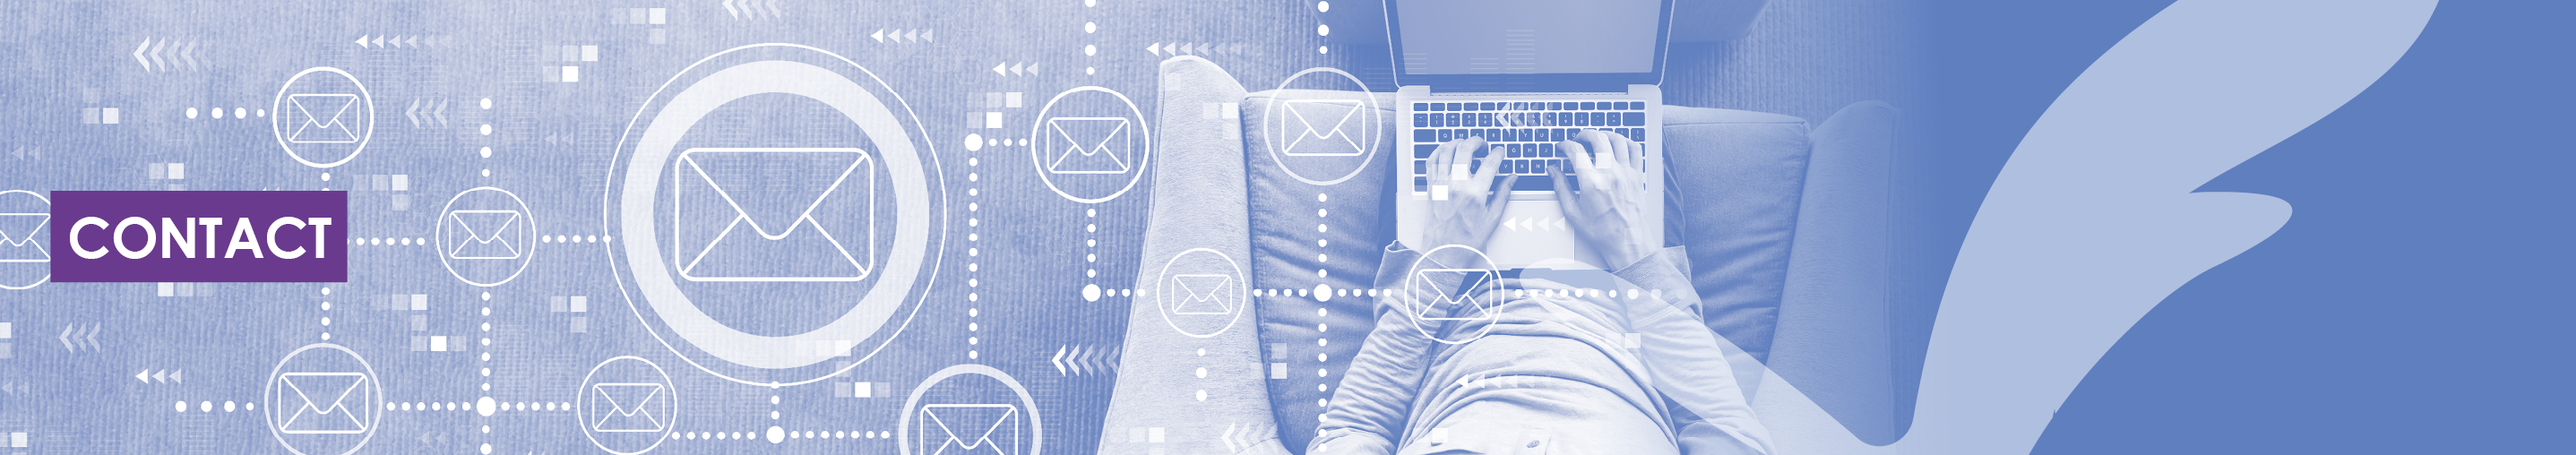
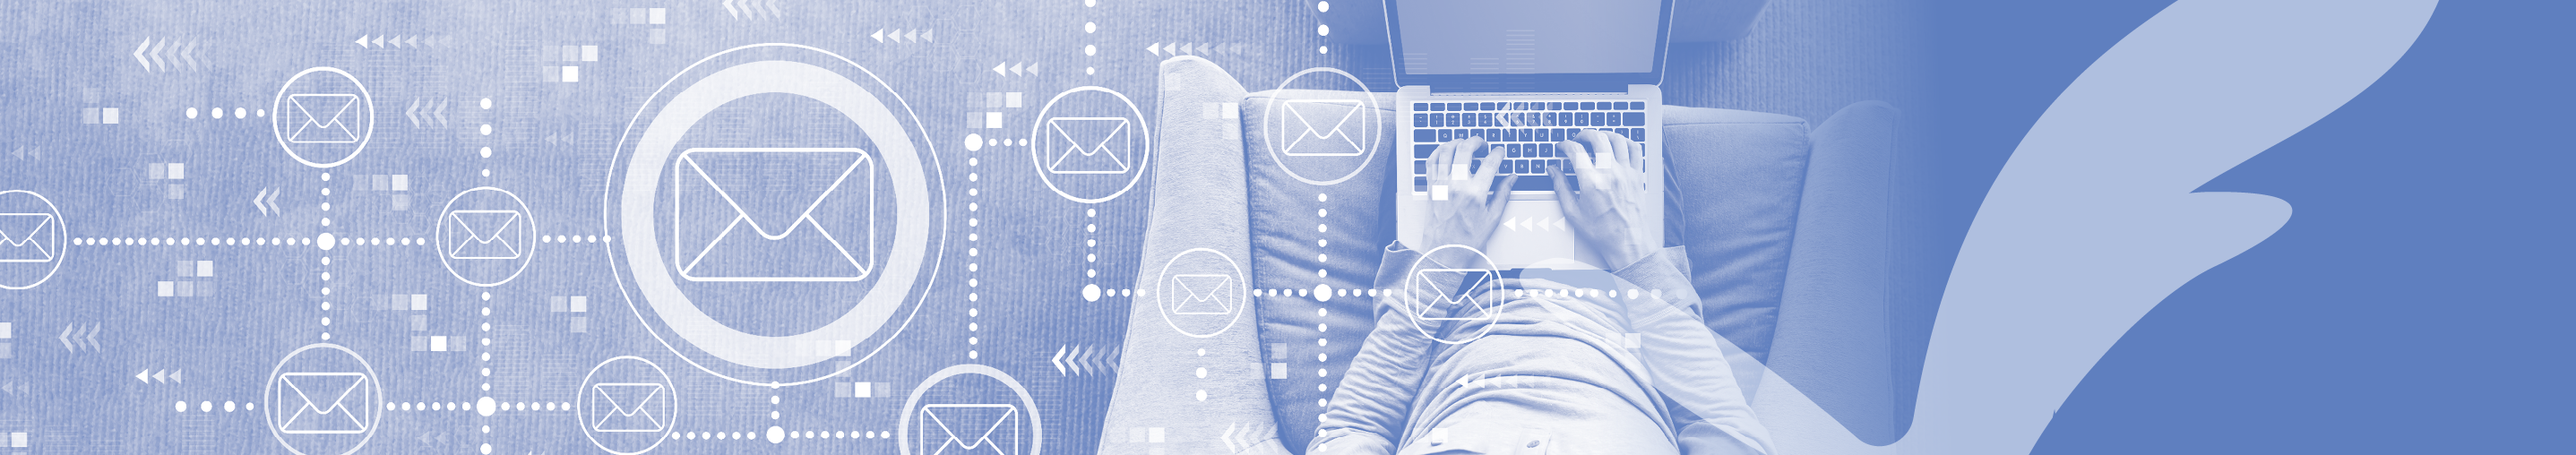
MAJ - Bannières et titres

Changed region(s): [[0.0, 0.4134, 0.1548, 0.6201]]

diff --git a/index.md b/index.md
@@ -1,4 +1,6 @@
 ---
+title: AILES
+excerpt: Accompagnement à l'intégration des Lycéens dans l'Enseignement Supérieur (AILES)
 lang: fr
 permalink: "/"
 layout: splash
@@ -69,7 +71,7 @@ feature_row3:
 {% include /AILES/Posts-FR.html %} -->
 
 
-{% include figure image_path="/assets/images/logo/bandeaulogo2.png" alt="LOGO partenaires" caption="" %}
+{% include figure image_path="/assets/images/logo/bandeaulogo3.png" alt="LOGO partenaires" caption="" %}
 
 
 

diff --git a/_pages/fr/les territoires.md b/_pages/fr/les territoires.md
@@ -1,9 +1,7 @@
 ---
+title: LES TERRITOIRES
+excerpt: "Spécificité territoriales"
 permalink: /lesterritoires/
-excerpt: "  
-  
-  
-  "
 
 header:
   overlay_image: /assets/images/banner/banner-territoires.png

diff --git a/_pages/fr/actions.md b/_pages/fr/actions.md
@@ -1,6 +1,7 @@
 ---
+title: LES ACTIONS
+excerpt: Donner confiance aux jeunes dans leurs choix
 lang: fr
-title: ""
 layout: collection
 permalink: /actions/
 collection: actions

diff --git a/_pages/fr/le projet.md b/_pages/fr/le projet.md
@@ -1,5 +1,6 @@
 ---
-title: ""
+title: LE PROJET
+excerpt: Accompagnement à l'intégration des Lycéens dans l'Enseignement Supérieur (AILES)
 lang: fr
 permalink: /leprojet/
 

diff --git a/_pages/fr/axe.md b/_pages/fr/axe.md
@@ -1,6 +1,6 @@
 ---
 lang: fr
-title: ""
+title: "OSBERVATOIRE DES PARCOURS"
 permalink: /axe/
 
 collection: 

diff --git a/_pages/fr/Living Lab.md b/_pages/fr/Living Lab.md
@@ -1,6 +1,6 @@
 ---
 lang: fr
-title: " "
+title: "LIVING LAB"
 permalink: /livinglab/
 
 collection: 

diff --git a/_pages/fr/contact.md b/_pages/fr/contact.md
@@ -1,5 +1,5 @@
 ---
-title: ""
+title: "CONTACT"
 permalink: /contact/
 
 header:
